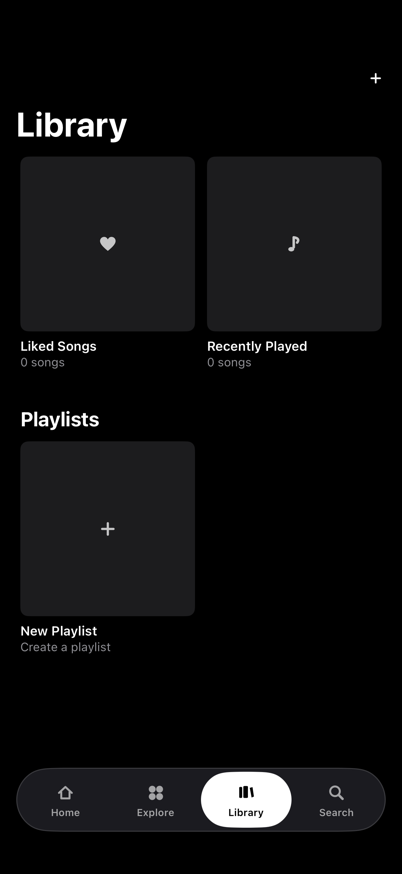
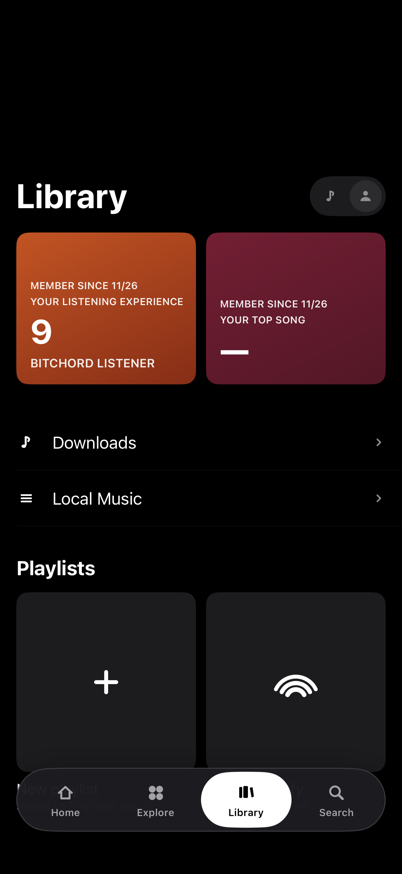
Borrow catalogue covers for the mood tiles and order the stat cards
Generated with Codebuff

diff --git a/v2/BitChordIOS12/Sources/ExploreViewController.swift b/v2/BitChordIOS12/Sources/ExploreViewController.swift
@@ -84,6 +84,13 @@ final class ExploreViewController: UIViewController {
             let tile = MoodTileView(mood: mood.title, top: mood.top, bottom: mood.bottom)
             tile.addTarget(self, action: #selector(tileTapped(_:)), for: .touchUpInside)
             row?.addArrangedSubview(tile)
+            // The real tiles are photo collages, so each one borrows the first
+            // cover the catalogue has for its mood.
+            CatalogueSearch.shared.albums(mood.title) { albums in
+                if let artwork = albums.first?.artwork {
+                    tile.setArtwork(artwork)
+                }
+            }
         }
 
         NSLayoutConstraint.activate([
@@ -124,6 +131,8 @@ final class ExploreViewController: UIViewController {
 final class MoodTileView: UIButton {
     let moodTitle: String
     private let gradient = CAGradientLayer()
+    private let photo = UIImageView()
+    private let shade = CAGradientLayer()
     private let label = UILabel()
 
     init(mood: String, top: UIColor, bottom: UIColor) {
@@ -136,6 +145,24 @@ final class MoodTileView: UIButton {
         gradient.startPoint = CGPoint(x: 0, y: 0)
         gradient.endPoint = CGPoint(x: 1, y: 1)
         layer.addSublayer(gradient)
+
+        photo.contentMode = .scaleAspectFill
+        photo.clipsToBounds = true
+        photo.alpha = 0.85
+        photo.translatesAutoresizingMaskIntoConstraints = false
+        addSubview(photo)
+        NSLayoutConstraint.activate([
+            photo.topAnchor.constraint(equalTo: topAnchor),
+            photo.leadingAnchor.constraint(equalTo: leadingAnchor),
+            photo.trailingAnchor.constraint(equalTo: trailingAnchor),
+            photo.bottomAnchor.constraint(equalTo: bottomAnchor)
+        ])
+        // Darken the photo at the top-left so the mood name stays readable.
+        shade.colors = [UIColor(white: 0, alpha: 0.45).cgColor,
+                        UIColor(white: 0, alpha: 0.05).cgColor]
+        shade.startPoint = CGPoint(x: 0, y: 0)
+        shade.endPoint = CGPoint(x: 1, y: 1)
+        photo.layer.addSublayer(shade)
 
         label.text = mood
         label.font = Theme.font(15, weight: .semibold)
@@ -156,5 +183,12 @@ final class MoodTileView: UIButton {
     override func layoutSubviews() {
         super.layoutSubviews()
         gradient.frame = bounds
+        shade.frame = photo.bounds
+    }
+
+    func setArtwork(_ url: URL) {
+        ArtworkLoader.shared.load(url) { [weak self] image in
+            self?.photo.image = image
+        }
     }
 }

diff --git a/v2/BitChordIOS12/Sources/LibraryViewController.swift b/v2/BitChordIOS12/Sources/LibraryViewController.swift
@@ -132,8 +132,9 @@ final class LibraryViewController: UIViewController {
         // Card one: listening experience, as in the reference capture.
         let experience = LibraryStatCard(colors: [UIColor(red: 0.76, green: 0.33, blue: 0.14, alpha: 1),
                                                  UIColor(red: 0.45, green: 0.13, blue: 0.07, alpha: 1)])
-        experience.addCaption("YOUR LISTENING EXPERIENCE", size: 10)
+        experience.addTopCaption("YOUR LISTENING EXPERIENCE", size: 10)
         experience.bigNumber.tag = 9002
+        experience.addCaption("MINUTES LISTENED", size: 11)
         experience.addLine("BITCHORD LISTENER", size: 12, weight: .semibold)
         experience.addCaption("MEMBER SINCE 11/26", size: 10)
         experience.onTap = { [weak self] in
@@ -146,9 +147,9 @@ final class LibraryViewController: UIViewController {
         // Card two: the top song of the recent plays.
         let top = LibraryStatCard(colors: [UIColor(red: 0.45, green: 0.12, blue: 0.20, alpha: 1),
                                           UIColor(red: 0.28, green: 0.08, blue: 0.13, alpha: 1)])
-        top.addCaption("YOUR TOP SONG", size: 10)
+        top.addTopCaption("YOUR TOP SONG", size: 10)
         top.bigNumber.tag = 9003
-        top.addCaption("MEMBER SINCE 11/26", size: 10)
+        top.addCaption("BITCHORD LISTENER", size: 10)
         top.onTap = { [weak self] in
             guard let self = self else { return }
             self.push(LibraryStore.shared.recentTracks, title: "Recently played",
@@ -350,6 +351,14 @@ final class LibraryStatCard: UIControl {
     }
 
     func addCaption(_ text: String, size: CGFloat) {
+        inner.addArrangedSubview(captionLabel(text, size: size))
+    }
+
+    func addTopCaption(_ text: String, size: CGFloat) {
+        inner.insertArrangedSubview(captionLabel(text, size: size), at: 0)
+    }
+
+    private func captionLabel(_ text: String, size: CGFloat) -> UILabel {
         let label = UILabel()
         label.text = text
         label.font = Theme.font(size, weight: .semibold)
@@ -357,7 +366,7 @@ final class LibraryStatCard: UIControl {
         label.numberOfLines = 1
         label.adjustsFontSizeToFitWidth = true
         label.minimumScaleFactor = 0.7
-        inner.insertArrangedSubview(label, at: 0)
+        return label
     }
 
     func addLine(_ text: String, size: CGFloat, weight: UIFont.Weight) {
